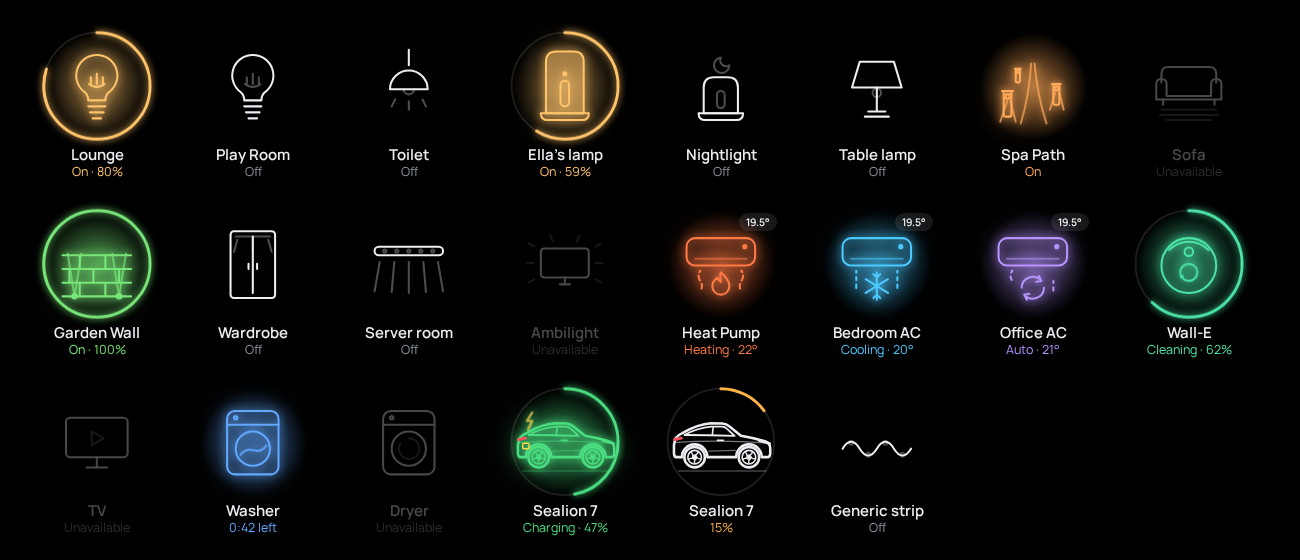
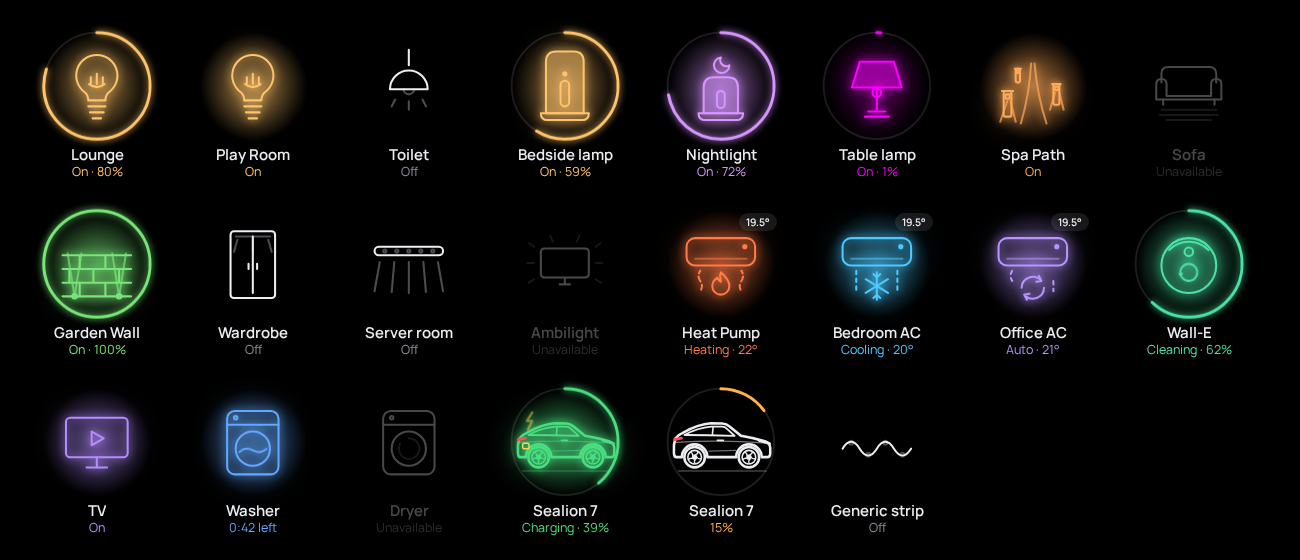
Docs: home dashboard example; generic names in previews
- examples/home-dashboard.yaml: weather, twelve device buttons (with the
  intercom), calendar and forecast / radar, in the same 36-column layout
  as the weather dashboard
- README shows the home dashboard preview
- Icon previews now use generic device names

diff --git a/README.md b/README.md
@@ -24,6 +24,14 @@ The whole weather wall, built from separate KSH cards. Add, remove or rearrange 
 
 Copy it from [`examples/weather-dashboard.yaml`](examples/weather-dashboard.yaml) and change the entity ids to yours.
 
+## Example: home dashboard
+
+Weather, twelve device buttons (with the Kiosk Satellite intercom), this week's calendar and the forecast / rain radar card.
+
+![KSH home dashboard, dark](docs/previews/home-dashboard-dark.png)
+
+Copy it from [`examples/home-dashboard.yaml`](examples/home-dashboard.yaml).
+
 ## Icon cards at a glance
 
 | Dark | Light |
